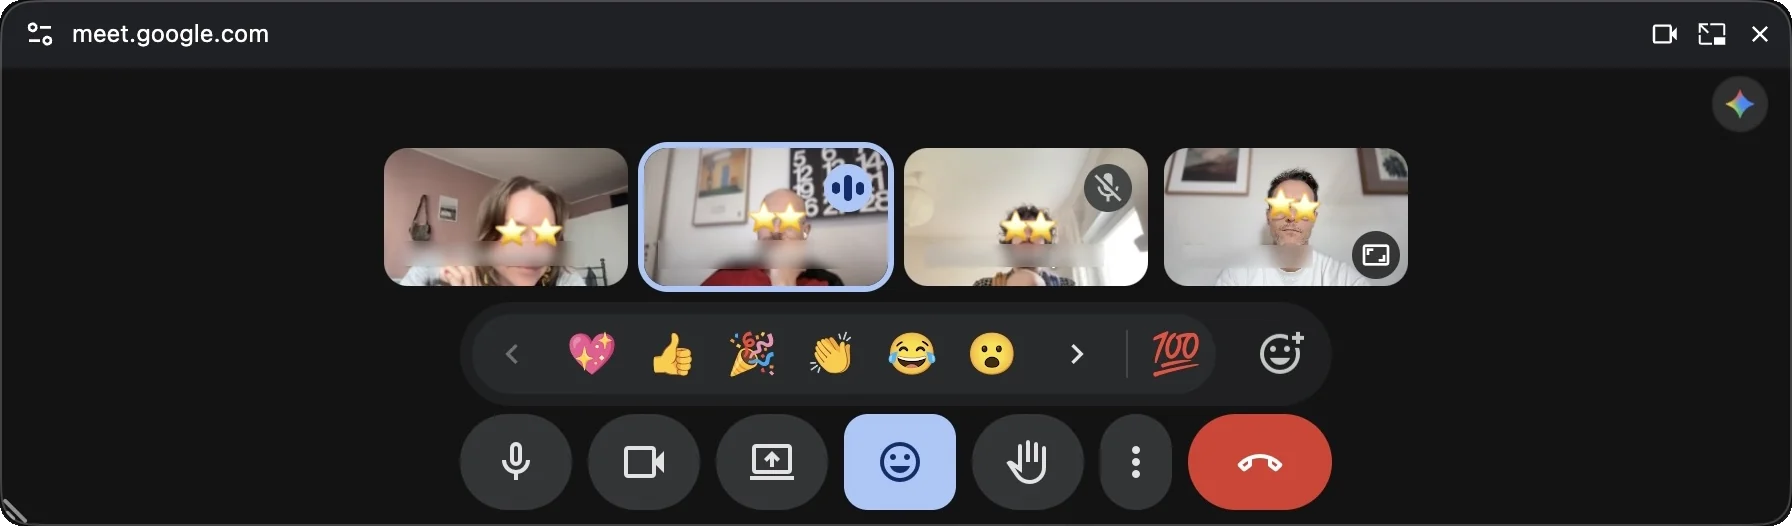
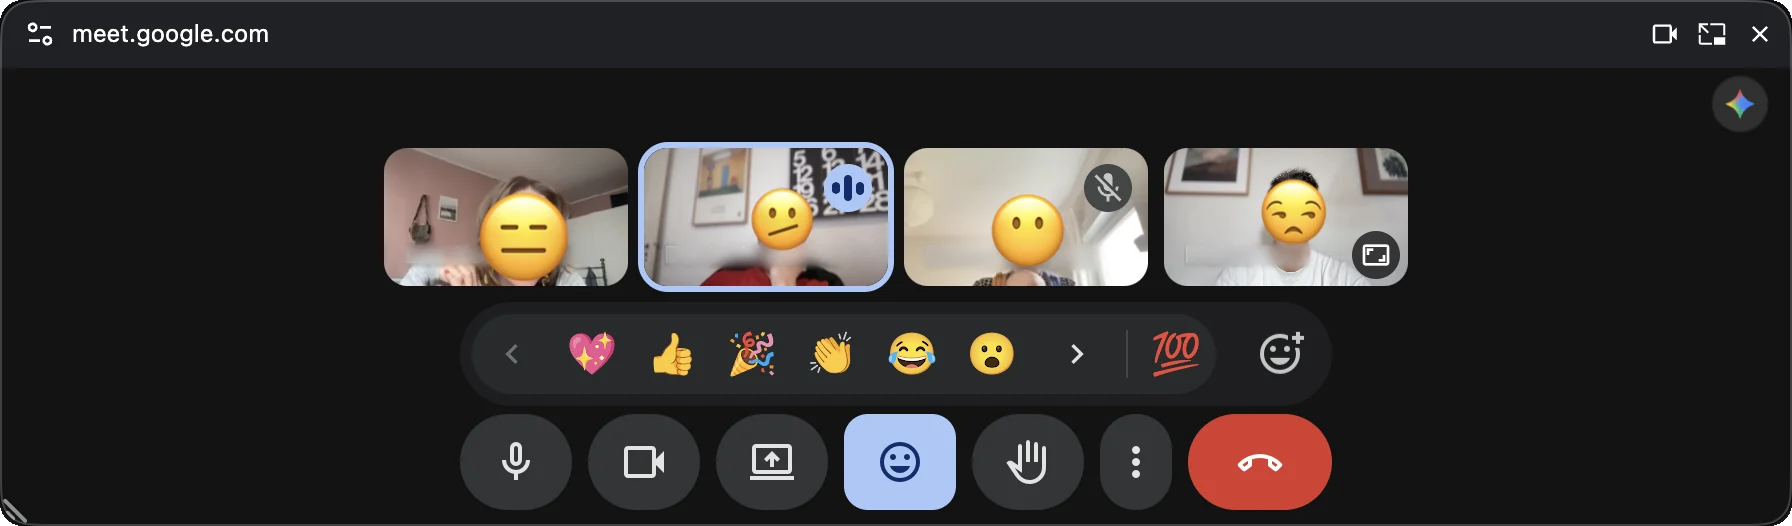
Update before screenshot

diff --git a/index.html b/index.html
@@ -216,7 +216,7 @@
     </div>
 
     <figure class="shot" id="shot" tabindex="0">
-      <img class="img-before" src="assets/before.webp" width="1792" height="526" alt="Meet's default floating window: four faces with names, a Gemini button, a row of reactions, and a control bar.">
+      <img class="img-before" src="assets/before.webp?v=2" width="1792" height="526" alt="Meet's default floating window: four faces with names, a Gemini button, a row of reactions, and a control bar.">
       <img class="img-after" src="assets/after.webp" width="1724" height="318" alt="The same window with the extension: four faces in a slim strip, nothing else.">
       <img class="img-hover" src="assets/hover.webp" width="1722" height="318" alt="With the pointer over the window, Meet's controls appear over the faces.">
     </figure>
